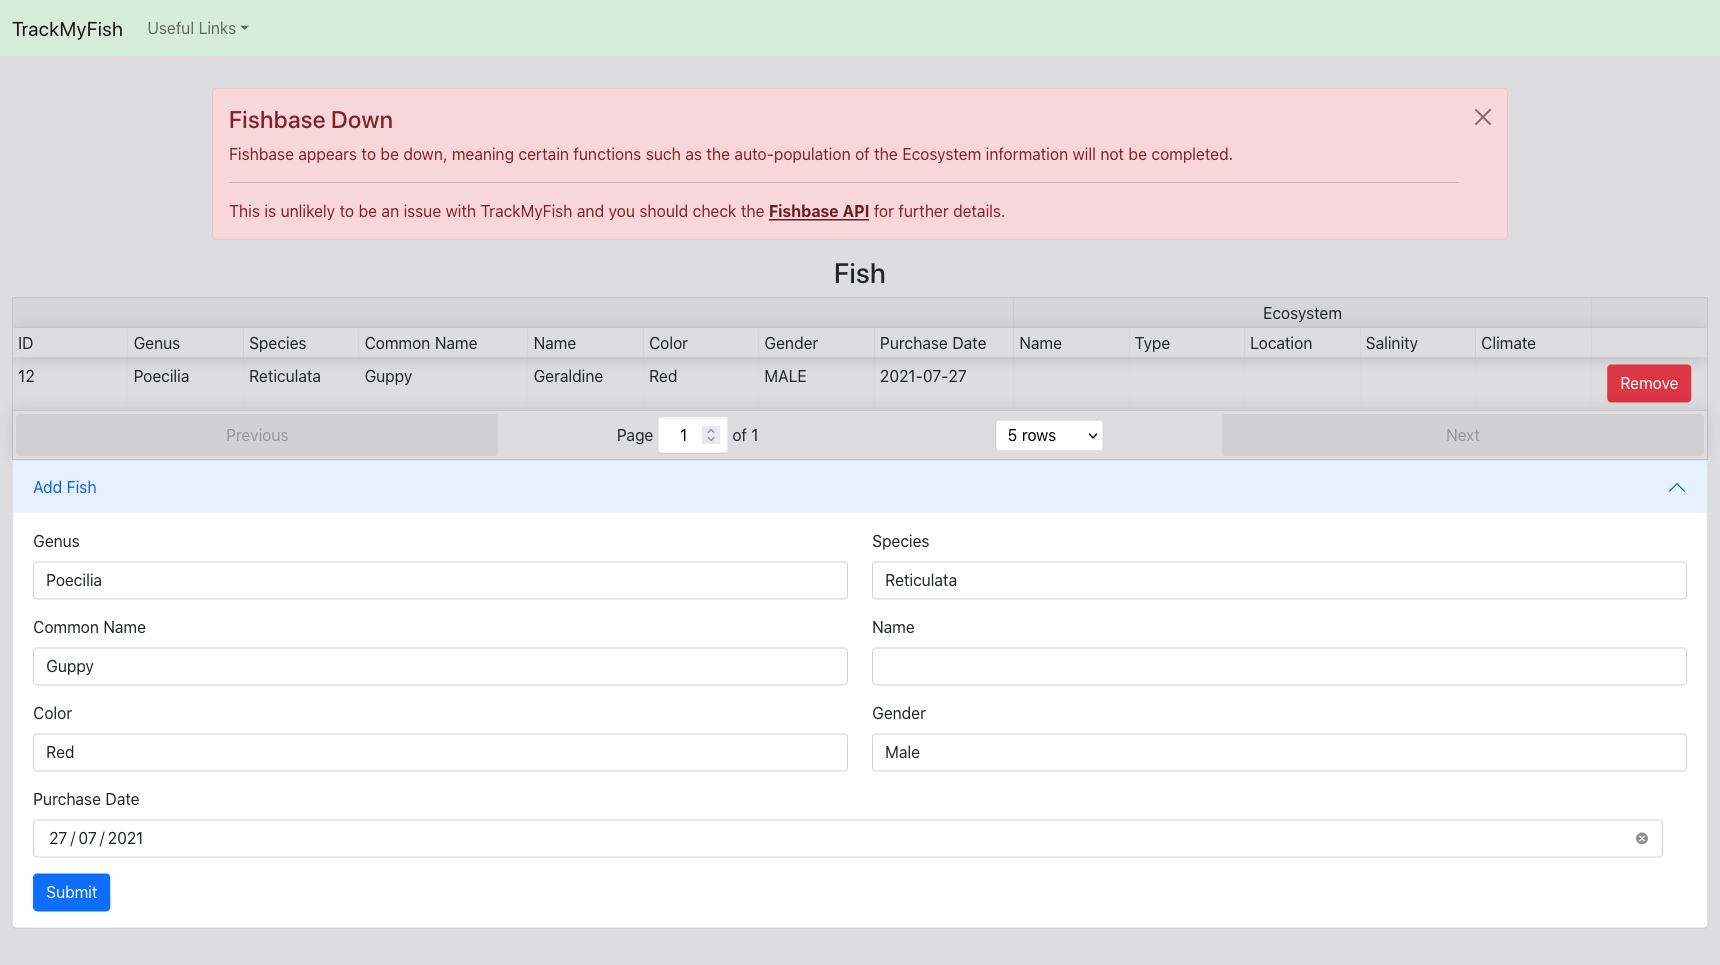
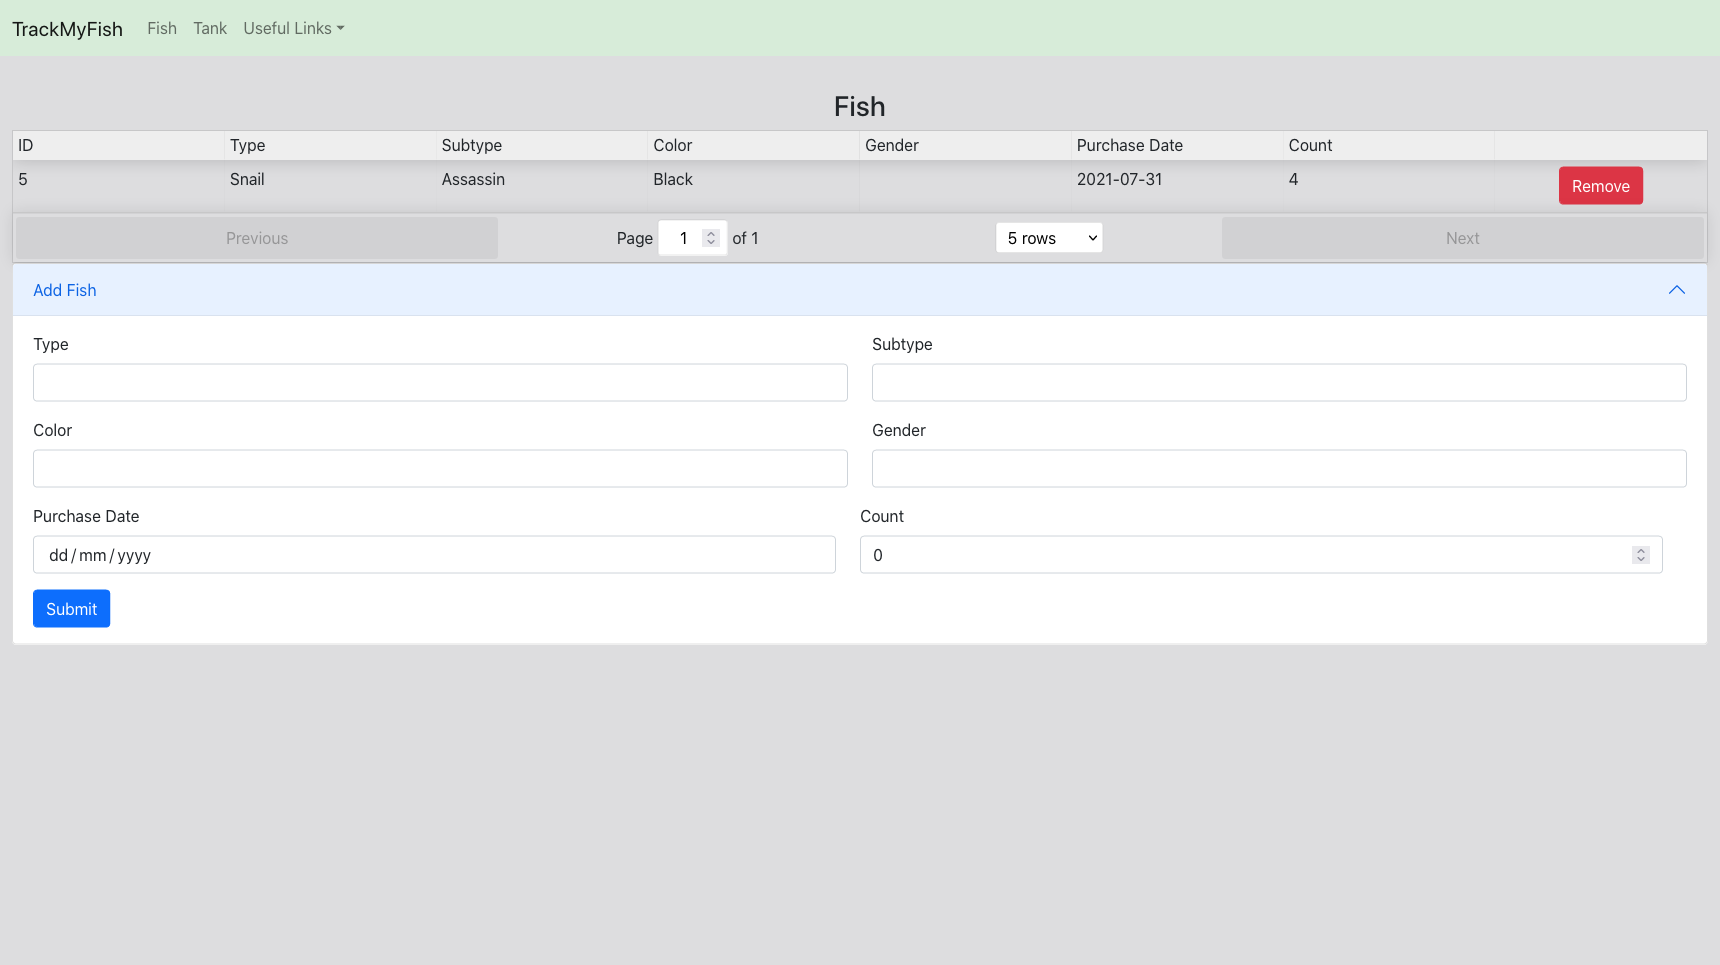
Screenshots and README

diff --git a/README.md b/README.md
@@ -3,15 +3,17 @@
 
 # Introduction
 
-TrackMyFish was designed to be a very simple application to track fish for a home aquarium.
+TrackMyFish was designed to be a simple application to track fish for a home aquarium.
 
 ## What is the status of TrackMyFish?
 
 The project is currently in an alpha stage. While we'll try our best not to introduce any breaking changes, it cannot be guaranteed until we reach v1.0.
 
-## Why would I use this instead of a Spreadsheet?
+## What can TrackMyFish do?
 
-The main advantage is the TrackMyFish integration with FishBase to autopopulate information (e.g. Ecosystem name, type and location). Over time more improvements will be made.
+* Track your fish and see them in a nicely presented table
+* Track your tank statistics (e.g. ammonia, nitrite, nitrate)
+  * See your inputted tank statistics in graphical format, automatically
 
 ## Got any screenshots?
 
@@ -37,17 +39,6 @@ docker-compose pull && docker-compose up -d && docker image prune -f
 * Postgres should be running locally, and the [TrackMyFish migration package](https://github.com/TrackMyFish/db/blob/main/main.go) should be run to create the neccessary database configuration.
 * Run the backend, by running `make run` from the [backend](https://github.com/TrackMyFish/backend) project
 * Run the frontend, by running `npm start` from the [frontend](https://github.com/TrackMyFish/frontend) project
-
-# Tips and Tricks
-
-## How do I find the Genus and Species of my fish?
-
-Under `Useful Links`, in the Navbar, there is a link to Fishbase; where you can search for your fish by it's common name. For example:
-
-* Search for "Guppy"
-* Fishbase returns the Species as "Poecilia reticulata" where "Poecillia" is the Genus and "reticulata" is the Species.
-
-In the future, we aim to add this functionality directly into TrackMyFish to avoid having to go to a separate website.
 
 # Feedback
 
